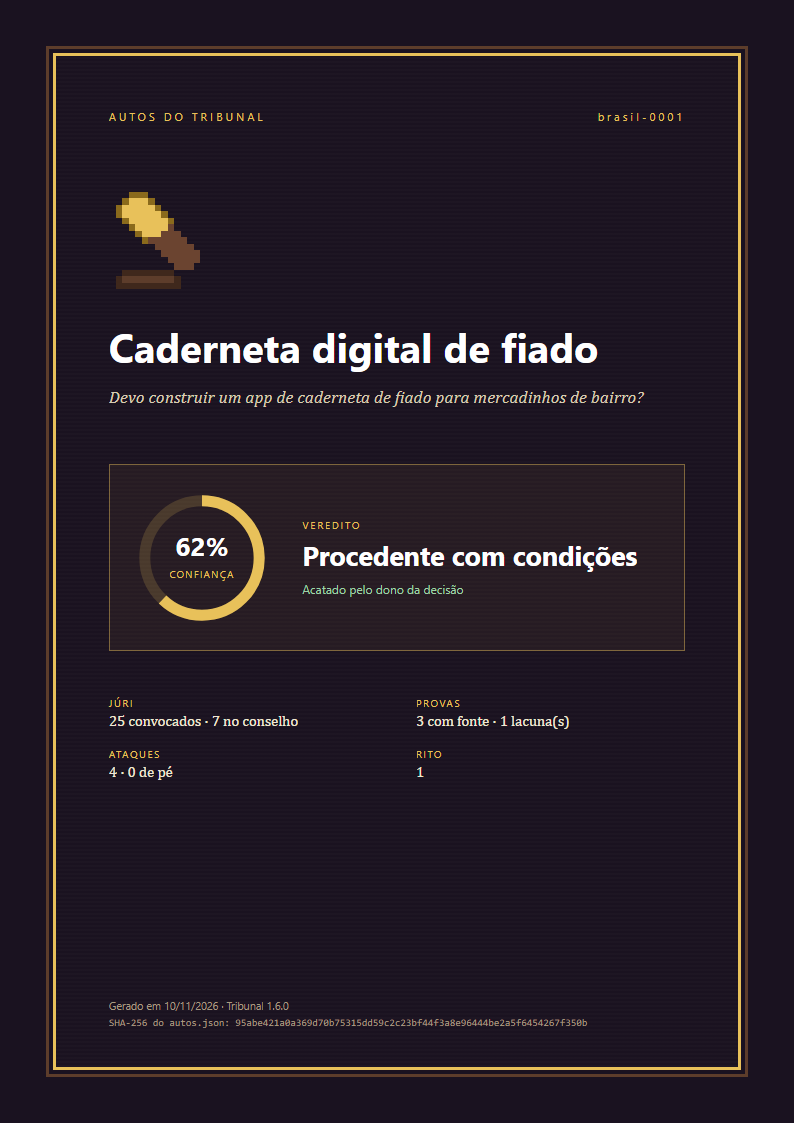
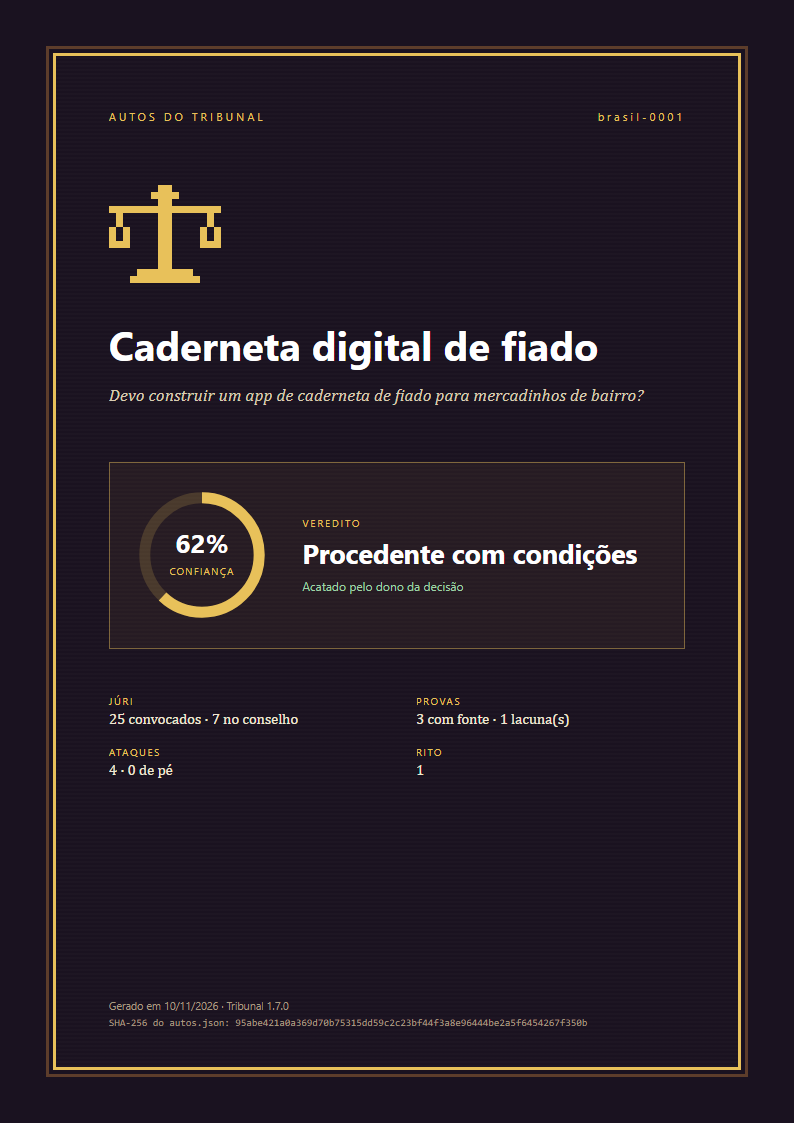
Release 1.7.1: scales on the PDF cover, automatic verdict sound
- The PDF dossier cover uses the Tribunal's pixel-art scales from the banner.
- The courtroom verdict no longer stops on a 'sound blocked' veil: it plays
  silently if the browser blocks audio and unlocks on the first click or key.

diff --git a/visual/tribunal.html b/visual/tribunal.html
@@ -208,11 +208,6 @@ aside{border-left:1px solid var(--line);background:var(--panel);display:flex;fle
           <div class="placarTela" id="placarTela"></div>
           <div class="cartaoFase" id="cartaoFase" role="status"></div>
           <div class="veu" id="veuInicio"></div>
-          <div class="veu" id="veuMalhete"><div class="janela" style="text-align:center;max-width:380px">
-            <div class="sup" id="supMalhete">A SENTENÇA VAI SER LIDA</div>
-            <p style="margin-top:8px">O navegador bloqueou o som. Bata o malhete para ouvir.</p>
-            <div class="cta" style="justify-content:center"><button class="grande" id="bMalhete">🔨 Bater o malhete</button></div>
-          </div></div>
           <div class="veu" id="veuFinal"><div class="janela veredito" id="janelaFinal"></div></div>
         </div>
       </div>
@@ -924,9 +919,11 @@ ROT.deliberacao = async () => {
   render(); await esperar(1200); ocioso = true;
 };
 async function garantirSom() {
-  if (veloz() || !som || (AC && AC.state === 'running')) return;
-  const v = document.getElementById('veuMalhete'); v.classList.add('ve');
-  await new Promise(r => { document.getElementById('bMalhete').onclick = () => { ligarAudio(); v.classList.remove('ve'); setTimeout(() => { batida(true); r(); }, 60); }; });
+  // Nunca para a sessão: tenta ligar o som e segue. Se o navegador não deixar, a sentença sai muda e o malhete
+  // aparece na tela do mesmo jeito; o som volta no primeiro clique ou tecla.
+  if (veloz() || !som) return;
+  ligarAudio();
+  if (AC && AC.state !== 'running') { try { await Promise.race([AC.resume(), esperar(400)]); } catch (e) {} }
 }
 ROT.sentenca = async () => {
   await garantirSom();
@@ -1039,6 +1036,7 @@ document.querySelectorAll('[data-v]').forEach(b => b.onclick = () => { vel = +b.
 const bSom = document.getElementById('bSom');
 bSom.onclick = () => { som = !som; bSom.textContent = som ? '🔊' : '🔇'; if (som) { ligarAudio(); batida(false); } };
 document.addEventListener('pointerdown', ligarAudio);
+document.addEventListener('keydown', ligarAudio);
 let faseAtual = 0;
 function pularFase() { pulando = true; esperas.splice(0).forEach(e => e.r()); P.forEach(c => { if (c.rota.length) { const q = c.rota[c.rota.length - 1]; c.x = q[0]; c.y = q[1]; c.rota = []; if (c.chegou) { const f = c.chegou; c.chegou = null; f(); } } }); }
 function irPara(i) { i = Math.min(i, PRONTAS - 1); try { sessionStorage.setItem(CHAVE + ':ir', String(Math.max(0, i))); } catch (e) {} location.reload(); }

diff --git a/motor/exportar.py b/motor/exportar.py
@@ -33,12 +33,11 @@ GRAVIDADE = {'fatal': ('FATAL', '#7d2433', '#fff'), 'grave': ('GRAVE', '#e9b23a'
 STATUS = {'corrigido': ('corrigido', '#5c9a64'), 'correcao_proposta': ('correção proposta', '#c9a23f'),
           'rebatido': ('rebatido', '#4f7fb8'), 'de_pe': ('de pé', '#7d2433')}
 
-# Malhete em pixel art, 16 x 16: o mesmo da sala.
-MALHETE = ['................', '...ggg..........', '..gGGGg.........', '.gGGGGGg........', '.gGGGGGGg.......',
-           '..gGGGGGGg......', '...gGGGGGw......', '....gGGGwww.....', '.....gwwwwww....', '.......wwwwww...',
-           '........wwwwww..', '.........wwwww..', '..........www...', '..bbbbbbbb......', '.bBBBBBBBBb.....',
-           '.bbbbbbbbbb.....']
-PIXEL_COR = {'g': '#8a6a1c', 'G': '#e8c15a', 'w': '#6b4430', 'b': '#3f281c', 'B': '#5d3d2b'}
+# A balança em pixel art, 16 x 14: a mesma do banner do Tribunal.
+BALANCA = ['.......##.......', '......####......', '.......##.......', '################', '.#.....##.....#.',
+           '.#.....##.....#.', '#.#....##....#.#', '#.#....##....#.#', '###....##....###', '.......##.......',
+           '.......##.......', '.......##.......', '....########....', '...##########...']
+OURO = '#e8c15a'
 
 
 def e(t):
@@ -47,10 +46,21 @@ def e(t):
 
 
 def _pixel_svg(tamanho=96):
-    rects = ''.join(f'<rect x="{x}" y="{y}" width="1" height="1" fill="{PIXEL_COR[c]}"/>'
-                    for y, linha in enumerate(MALHETE) for x, c in enumerate(linha) if c in PIXEL_COR)
-    return (f'<svg width="{tamanho}" height="{tamanho}" viewBox="0 0 16 16" shape-rendering="crispEdges" '
-            f'aria-hidden="true">{rects}</svg>')
+    """A balança do Tribunal, um retângulo por trecho contínuo de pixels de cada linha."""
+    rects = []
+    for y, linha in enumerate(BALANCA):
+        x = 0
+        while x < len(linha):
+            if linha[x] == '#':
+                ini = x
+                while x < len(linha) and linha[x] == '#':
+                    x += 1
+                rects.append(f'<rect x="{ini}" y="{y}" width="{x - ini}" height="1"/>')
+            else:
+                x += 1
+    alt = round(tamanho * 14 / 16)
+    return (f'<svg width="{tamanho}" height="{alt}" viewBox="0 0 16 14" shape-rendering="crispEdges" fill="{OURO}" '
+            f'aria-hidden="true">{"".join(rects)}</svg>')
 
 
 def _anel(valor, tamanho=132):
@@ -127,7 +137,7 @@ def html(autos, sha='', natural=False, versao=''):
 <section class="capa">
   <div class="moldura">
     <div class="topo"><span>AUTOS DO TRIBUNAL</span><span>{e(j.get("sessao", ""))}</span></div>
-    <div class="malhete">{_pixel_svg(104)}</div>
+    <div class="malhete">{_pixel_svg(112)}</div>
     <h1>{e(caso.get("titulo"))}</h1>
     <p class="pergunta">{e(caso.get("pergunta"))}</p>
     <div class="veredito-capa">
@@ -337,7 +347,7 @@ h1, h2, h3, h4, .rotulo, .topo, th, .selo, .status, .p-tipo, .num, .v-voto { fon
   display: flex; flex-direction: column; background:
   repeating-linear-gradient(0deg, rgba(255,255,255,.015) 0 2px, transparent 2px 4px); }
 .topo { display: flex; justify-content: space-between; letter-spacing: .3em; font-size: 8pt; color: #e8c15a; }
-.malhete { margin: 16mm 0 8mm; }
+.malhete { margin: 16mm 0 9mm; }
 .capa h1 { font-size: 30pt; line-height: 1.12; margin: 0 0 4mm; color: #fff; font-weight: 700; }
 .pergunta { font-size: 13pt; color: #d9ccb3; font-style: italic; margin: 0 0 14mm; }
 .veredito-capa { display: flex; gap: 9mm; align-items: center; padding: 7mm; border: 1px solid rgba(232,193,90,.45);

diff --git a/tribunal.py b/tribunal.py
@@ -69,7 +69,7 @@ try:
 except (AttributeError, ValueError):
     pass
 
-VERSAO = '1.7.0'
+VERSAO = '1.7.1'
 
 
 def _lista(x):

diff --git a/CHANGELOG.md b/CHANGELOG.md
@@ -3,11 +3,18 @@
 Todas as mudanças relevantes do Tribunal. O formato segue o [Keep a Changelog](https://keepachangelog.com/pt-BR/1.1.0/)
 e as versões seguem o [Versionamento Semântico](https://semver.org/lang/pt-BR/).
 
+## [1.7.1] — 2026-11-10
+
+### Mudou
+- A capa do dossiê em PDF usa a balança em pixel art do Tribunal, a mesma do banner, no lugar do malhete.
+- A sentença na sala é automática: se o navegador bloquear o som, ela sai muda, sem parar num aviso. O som volta no
+  primeiro clique ou tecla.
+
 ## [1.7.0] — 2026-11-10
 
 ### Novo
 - **Dossiê em PDF** (`tribunal.py exportar <autos>`), para levar o julgamento a uma discussão. Traz:
-  - capa com o veredito, a confiança e o malhete em pixel art;
+  - capa com o veredito, a confiança e a balança em pixel art;
   - resumo de uma página;
   - o caso e as provas com fonte;
   - o contraditório, com gravidade, checagem e status;
@@ -134,6 +141,7 @@ A versão que transforma a sentença em plano. Medida em um julgamento real cont
 Primeira versão: perito, promotor, defesa, júri de 100 brasileiros fictícios calibrados pelo IBGE, voto
 secreto dos 25, conselho de 7, sentença com confiança, sala em pixel art com o malhete e o Memory Card.
 
+[1.7.1]: https://github.com/tiagocardosobezerra/tribunal/releases/tag/v1.7.1
 [1.7.0]: https://github.com/tiagocardosobezerra/tribunal/releases/tag/v1.7.0
 [1.6.0]: https://github.com/tiagocardosobezerra/tribunal/releases/tag/v1.6.0
 [1.5.0]: https://github.com/tiagocardosobezerra/tribunal/releases/tag/v1.5.0

diff --git a/SKILL.md b/SKILL.md
@@ -163,8 +163,8 @@ como prova e roda `perito-feito <autos>`. No máximo 2 rodadas; depois, o que fa
 2. Gere a ata: `ata <autos> -o <pasta>/ata.md`.
    Para o usuário mostrar a outras pessoas: `exportar <autos>` gera `autos.pdf`, o dossiê com capa, resumo, provas,
    contraditório, júri, sentença, plano e o SHA-256 dos autos. Ofereça sempre que o caso for base de uma discussão.
-3. Rode `fase <autos> sentenca`. A sala termina com o malhete; se o navegador bloquear o som, ela pausa
-   num botão "Bater o malhete".
+3. Rode `fase <autos> sentenca`. A sala termina com o malhete, sozinha; se o navegador bloquear o som,
+   a sentença sai muda e o som volta no primeiro clique.
 4. Ofereça o Memory Card: `cartao enviar` (prévia) e `--confirmar` depois do "sim".
 5. Recurso: júri novo (com `caso.recurso_de`, o `convocar --autos` deixa de fora quem já julgou), versão nova do caso.
 6. Desfecho: `cartao desfecho`, quando o usuário souber como terminou.

diff --git a/README.md b/README.md
@@ -5,7 +5,7 @@
 </p>
 
 <p align="center">
-  <img alt="Versão 1.7.0" src="https://img.shields.io/badge/vers%C3%A3o-1.7.0-e8c15a?style=flat-square" />
+  <img alt="Versão 1.7.1" src="https://img.shields.io/badge/vers%C3%A3o-1.7.1-e8c15a?style=flat-square" />
   <img alt="Skill do Claude Code" src="https://img.shields.io/badge/Claude%20Code-skill-d97757?style=flat-square" />
   <img alt="Python 3.8+" src="https://img.shields.io/badge/python-3.8%2B-3776AB?style=flat-square&logo=python&logoColor=white" />
   <img alt="Sem dependências" src="https://img.shields.io/badge/depend%C3%AAncias-nenhuma-2ea44f?style=flat-square" />

diff --git a/README.es.md b/README.es.md
@@ -5,7 +5,7 @@
 </p>
 
 <p align="center">
-  <img alt="Versión 1.7.0" src="https://img.shields.io/badge/versi%C3%B3n-1.7.0-e8c15a?style=flat-square" />
+  <img alt="Versión 1.7.1" src="https://img.shields.io/badge/versi%C3%B3n-1.7.1-e8c15a?style=flat-square" />
   <img alt="Skill de Claude Code" src="https://img.shields.io/badge/Claude%20Code-skill-d97757?style=flat-square" />
   <img alt="Python 3.8+" src="https://img.shields.io/badge/python-3.8%2B-3776AB?style=flat-square&logo=python&logoColor=white" />
   <img alt="Sin dependencias" src="https://img.shields.io/badge/dependencias-ninguna-2ea44f?style=flat-square" />

diff --git a/README.en.md b/README.en.md
@@ -5,7 +5,7 @@
 </p>
 
 <p align="center">
-  <img alt="Version 1.7.0" src="https://img.shields.io/badge/version-1.7.0-e8c15a?style=flat-square" />
+  <img alt="Version 1.7.1" src="https://img.shields.io/badge/version-1.7.1-e8c15a?style=flat-square" />
   <img alt="Claude Code skill" src="https://img.shields.io/badge/Claude%20Code-skill-d97757?style=flat-square" />
   <img alt="Python 3.8+" src="https://img.shields.io/badge/python-3.8%2B-3776AB?style=flat-square&logo=python&logoColor=white" />
   <img alt="No dependencies" src="https://img.shields.io/badge/dependencies-none-2ea44f?style=flat-square" />
